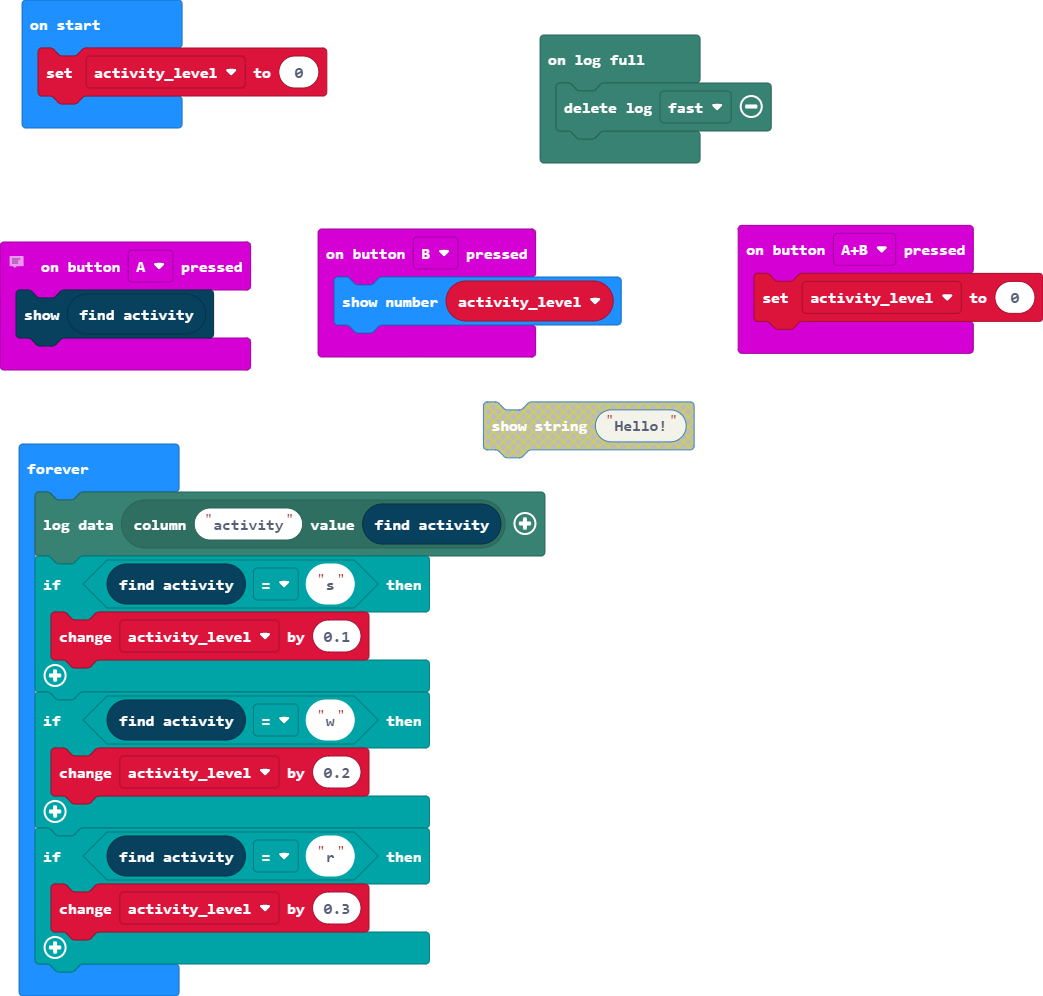
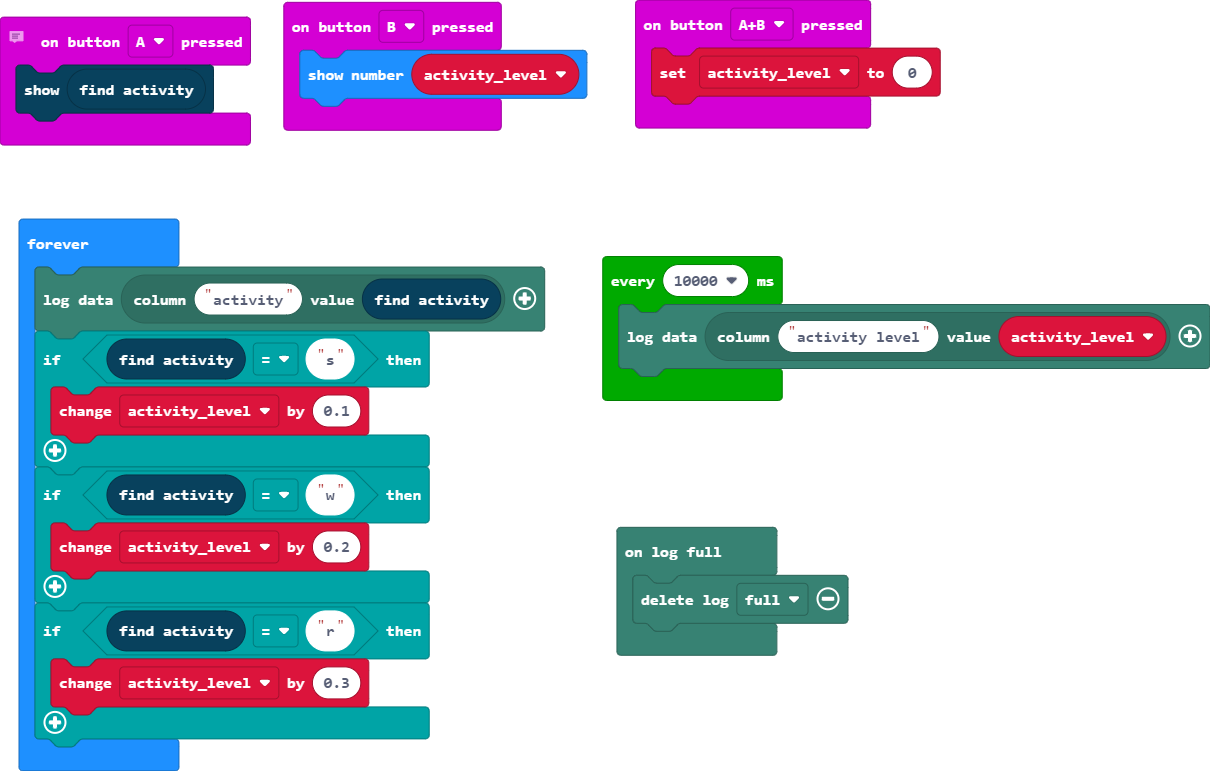
fixed data logger

diff --git a/custom.ts b/custom.ts
@@ -121,19 +121,7 @@ namespace activityRecognition {
     //  every 0.1 sec: collect acceleration data, update
     //% block
     export function findActivity(): string {
-        /*rawX.push(input.acceleration(Dimension.X))
-        rawY.push(input.acceleration(Dimension.Y))
-        rawZ.push(input.acceleration(Dimension.Z))
-        basic.pause(97)
-        current_activity = activities[predict(feature_package(rawX, rawY, rawZ))]
-        //let current_activity = activities[predict(feature_package(rawX, rawY, rawZ))]*/
         return current_activity
-        //basic.showString(current_activity, 1)
-        // ^ no need to show here
-        /*rawX.removeAt(0)
-        rawY.removeAt(0)
-        rawZ.removeAt(0)*/
-        //serial.writeLine(current_activity)
     }
 
     // block that shows string for 1 millisecond: if you use the default show string block it will display for ~1 second and cause a backlog of strings to display

diff --git a/main.ts b/main.ts
@@ -1,5 +1,6 @@
+let activity_level = 0
 datalogger.onLogFull(function () {
-    datalogger.deleteLog(datalogger.DeleteType.Fast)
+    datalogger.deleteLog(datalogger.DeleteType.Full)
 })
 // activity_tracker_on = false
 // datalogger.deleteLog()
@@ -12,8 +13,9 @@ input.onButtonPressed(Button.AB, function () {
 input.onButtonPressed(Button.B, function () {
     basic.showNumber(activity_level)
 })
-let activity_level = 0
-activity_level = 0
+loops.everyInterval(10000, function () {
+    datalogger.log(datalogger.createCV("activity level", activity_level))
+})
 basic.forever(function () {
     datalogger.log(datalogger.createCV("activity", activityRecognition.findActivity()))
     if (activityRecognition.findActivity() == "s") {
